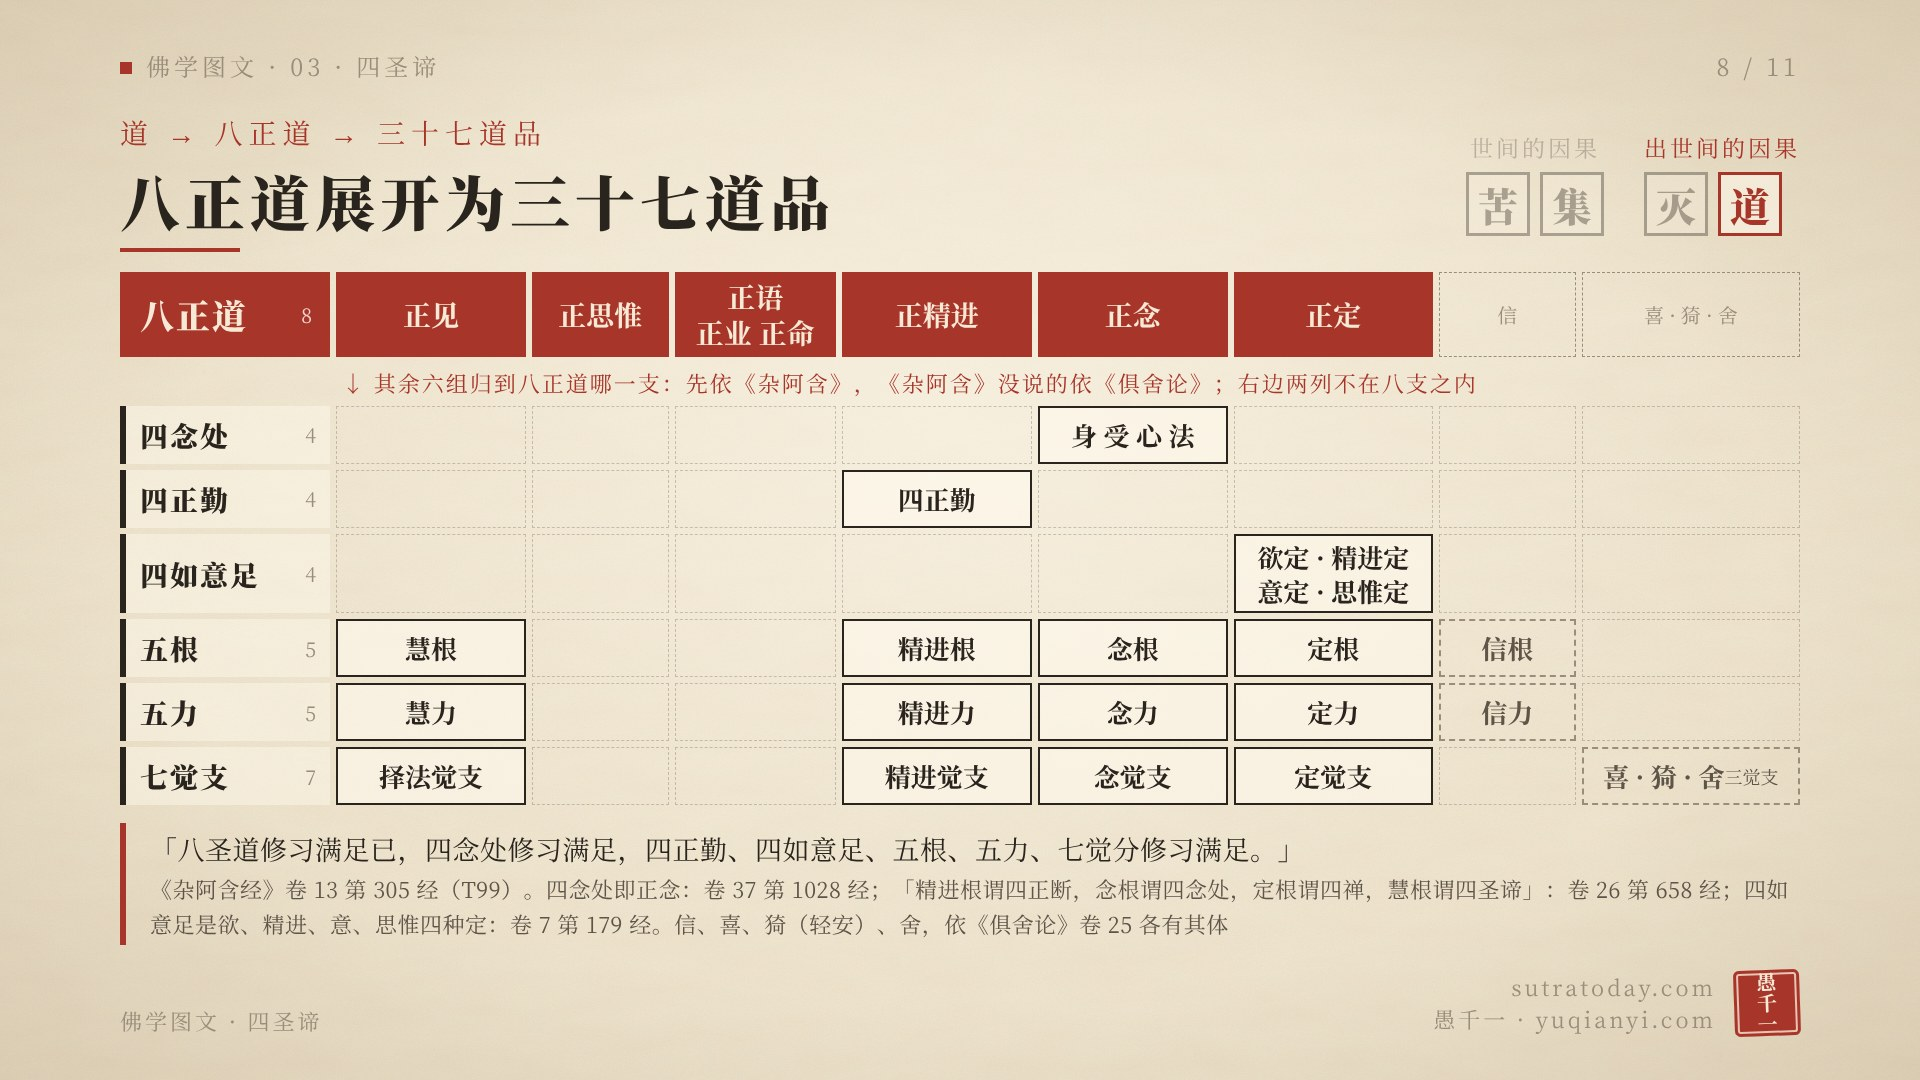
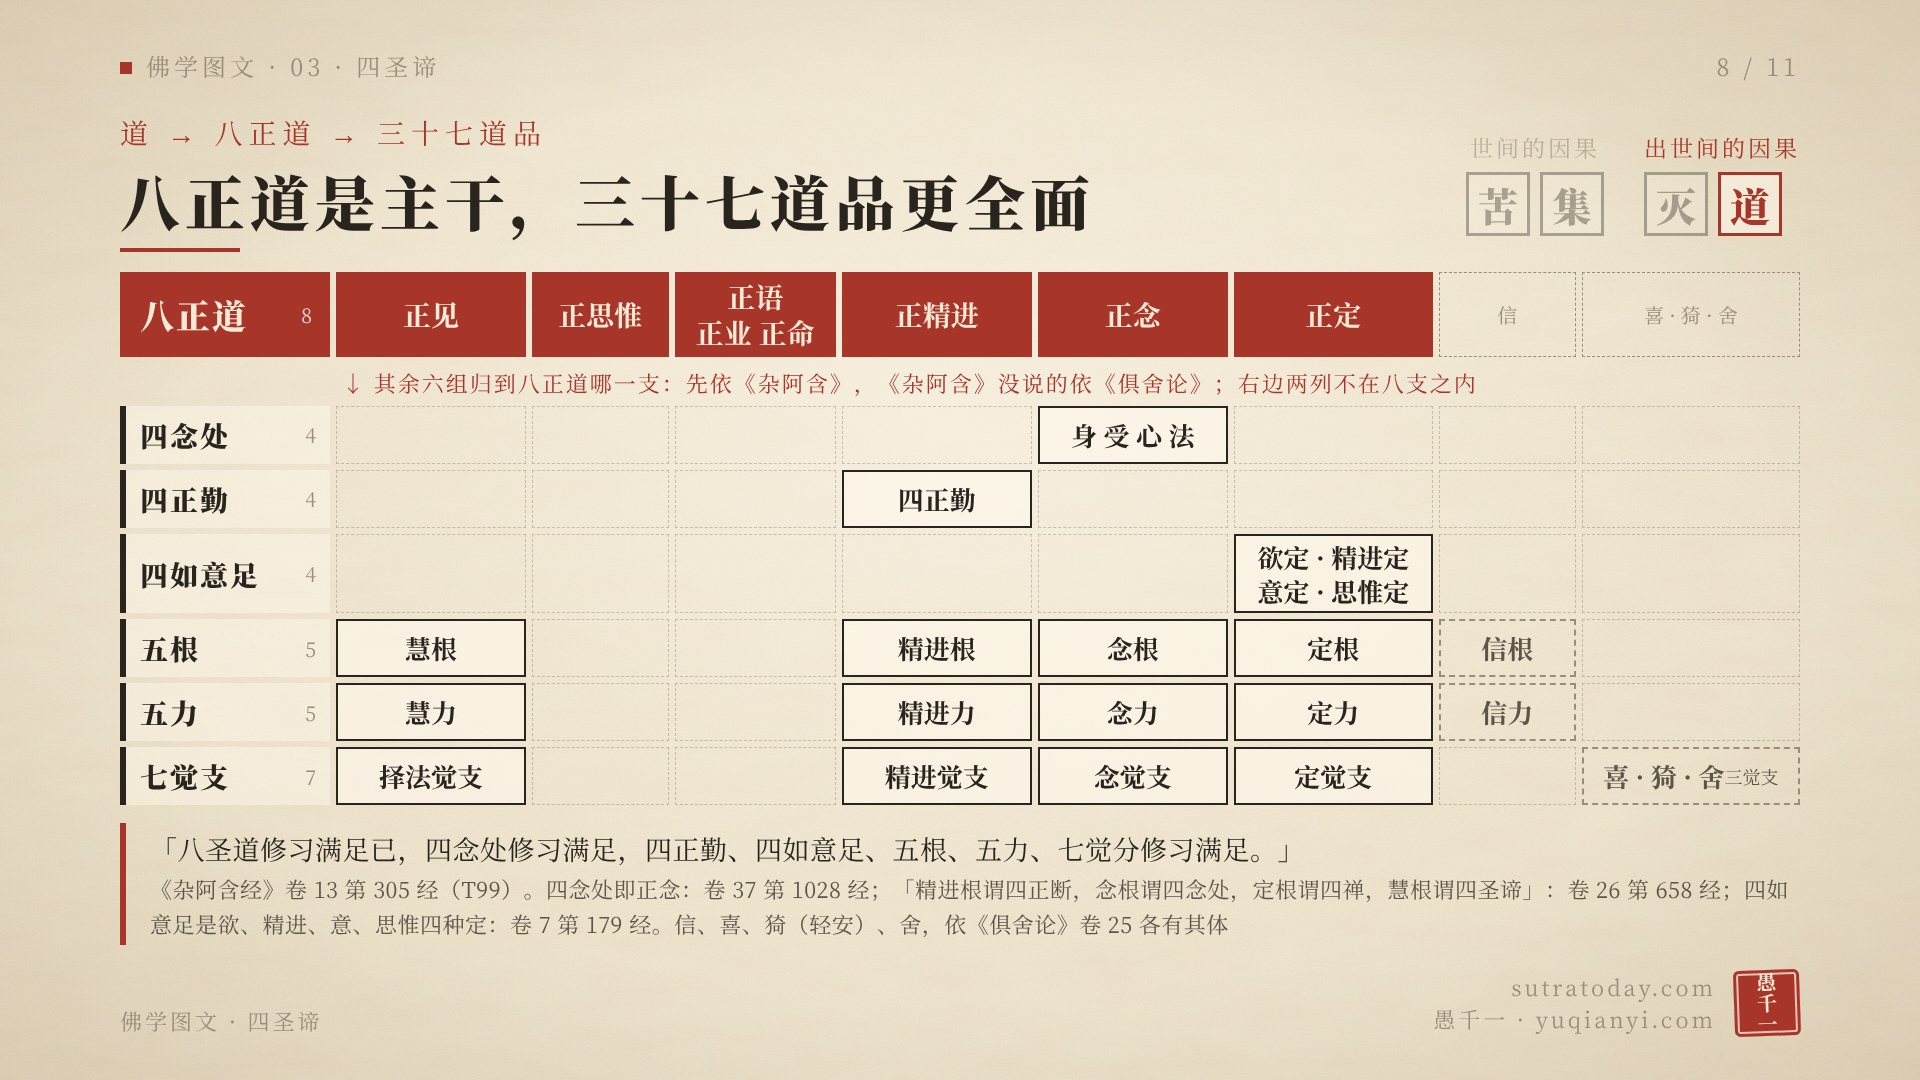
四圣谛：「八正道展开为三十七道品」改为「八正道是主干，三十七道品更全面；八正道修满，其余六组随之修满」
依据杂阿含 305「八圣道修习满足已……七觉分修习满足」与俱舍论卷 25「三十七法顺趣菩提，是故皆名菩提分法」，不再用解脱道论。图卡（封面、卡 8、总图）、文章、口播稿同步修改。

Claude-Session: https://claude.ai/code/session_01HUmfYdn8wkAM14ebYcQraf

Changed region(s): [[0.1562, 0.1528, 0.5625, 0.2139]]

diff --git a/videos/four-noble-truths-infographic/cards.html b/videos/four-noble-truths-infographic/cards.html
@@ -136,7 +136,7 @@
   .up div:last-child { font-size: 26px; color: var(--cinnabar); letter-spacing: 1px; padding-left: 6px; }
   .up div:last-child b { font-size: 30px; margin-right: 10px; }
 
-  /* 道：八正道为主，展开为三十七道品 */
+  /* 道：八正道为主干，更全面的是三十七道品 */
   .dao { display: grid; grid-template-columns: 640px 120px 1fr; align-items: stretch; }
   .bz { padding: 10px 26px 14px; border: 4px solid var(--cinnabar); background: rgba(168,53,42,.09); }
   .bz .hd { display: flex; align-items: baseline; gap: 16px; }
@@ -303,7 +303,7 @@
       <div class="gap"></div>
       <div class="n"><b>十二因缘</b><em>原理</em><span>苦集 → 顺转（流转）<br>灭道 → 逆转（还灭）</span></div>
       <div class="gap"></div>
-      <div class="n"><b>八正道</b><em>方法</em><span>展开为三十七道品</span></div>
+      <div class="n"><b>八正道</b><em>方法</em><span>道的主干；更全面的是三十七道品</span></div>
       <div style="margin-top:28px;font-size:28px;line-height:1.6;color:var(--ink-soft);border-left:4px solid var(--cinnabar);padding-left:22px">四圣谛不是小乘思想。<br>大乘的中观、唯识、如来藏，都不离四圣谛。</div>
     </div>
   </div>
@@ -535,13 +535,13 @@
   <div class="foot"><span>佛学图文 · 四圣谛</span><span class="sign"><span class="url">sutratoday.com<br>愚千一 · yuqianyi.com</span><span class="seal">愚千一</span></span></div>
 </section>
 
-<!-- ===== 八正道 展开为 三十七道品 ===== -->
+<!-- ===== 八正道 与 三十七道品 ===== -->
 <section class="card">
   <div class="head"><span class="series">佛学图文 · 03 · 四圣谛</span><span class="pg"></span></div>
   <div class="top">
     <div>
       <div class="kicker">道 → 八正道 → 三十七道品</div>
-      <h1 class="title">八正道展开为三十七道品</h1>
+      <h1 class="title">八正道是主干，三十七道品更全面</h1>
     </div>
     <div class="di4">
       <div class="half" style="opacity:.35"><div class="cap">世间的因果</div><div class="ch"><b>苦</b><b>集</b></div></div>
@@ -786,14 +786,14 @@
 
   <!-- 道：八正道 → 三十七道品 -->
   <div class="row">
-    <div class="lab r"><b>道</b><span>八正道展开<br>为三十七道品</span></div>
+    <div class="lab r"><b>道</b><span>八正道是主干<br>三十七道品<br>更全面</span></div>
     <div>
       <div class="dao">
         <div class="bz">
           <div class="hd"><b>八正道</b><span>道的主干 · 八支</span></div>
           <div class="items"><i>正见</i><i>正思惟</i><i>正语</i><i>正业</i><i>正命</i><i>正精进</i><i>正念</i><i>正定</i></div>
         </div>
-        <div class="ex"><b>展开</b><i>→</i></div>
+        <div class="ex"><b>满足</b><i>→</i></div>
         <div class="sq">
           <div class="hd">三十七道品<span>七组，共 37 项</span></div>
           <div class="gs">

diff --git a/_posts/2026-10-14-four-noble-truths.md b/_posts/2026-10-14-four-noble-truths.md
@@ -1,7 +1,7 @@
 ---
 layout: post
 title: 四圣谛：佛教的核心思想，和十二因缘、八正道、三十七道品的关系
-description: 佛初转法轮讲四圣谛，大乘中观、唯识、如来藏也不离四圣谛。再从苦集讲十二因缘顺转，从灭道讲逆转，八正道展开为三十七道品，最后用一张图把四者的关系画出来。
+description: 佛初转法轮讲四圣谛，大乘中观、唯识、如来藏也不离四圣谛。再从苦集讲十二因缘顺转，从灭道讲逆转，八正道是主干、三十七道品更全面，最后用一张图把四者的关系画出来。
 excerpt:
 tags:
  - 佛教
@@ -17,7 +17,7 @@ tags:
 
 从这一期开始，讲佛教的核心思想：四圣谛、十二因缘、八正道。这三者的关系，我这样分：四圣谛是核心，十二因缘是原理，八正道是方法。
 
-十二因缘讲的是苦怎样一支一支生起，又怎样一支一支灭掉。苦、集两谛，展开来是十二因缘的顺转；灭、道两谛，展开来是十二因缘的逆转。八正道讲的是怎样修，八正道再展开，就是三十七道品。
+十二因缘讲的是苦怎样一支一支生起，又怎样一支一支灭掉。苦、集两谛，展开来是十二因缘的顺转；灭、道两谛，展开来是十二因缘的逆转。八正道讲的是怎样修，它是道的主干；更全面的修法，是三十七道品。
 
 还要先说明一点：四圣谛不是小乘思想。大乘的中观、唯识、如来藏，都不离四圣谛。这一点，后面拿经论来看。
 
@@ -109,9 +109,9 @@ tags:
 
 ![](https://raw.githubusercontent.com/yuqianyi1001/yuqianyi1001.github.io/master/images/2026-10-14-four-noble-truths-card-8.jpg)
 
-八正道再展开，就是三十七道品。
+八正道是道的主干，更全面的修法，是三十七道品。
 
-《杂阿含经》卷十三第三〇五经说：「八圣道修习满足已，四念处修习满足，四正勤、四如意足、五根、五力、七觉分修习满足。」八正道修满了，其余六组道品也就随着修满了。
+《杂阿含经》卷十三第三〇五经说：「八圣道修习满足已，四念处修习满足，四正勤、四如意足、五根、五力、七觉分修习满足。」八正道修满了，其余六组道品也就随着修满了。经文说的是「随着修满」，并没有说其余六组都包在八正道里面。《俱舍论》卷二十五说：「经说觉分有三十七」，「三十七法顺趣菩提，是故皆名菩提分法」。三十七道品都是趣向菩提的修法，八正道是其中的一组。
 
 三十七道品是：四念处、四正勤、四如意足、五根、五力、七觉支、八正道，四加四加四加五加五加七加八，一共三十七。
 
@@ -145,7 +145,7 @@ tags:
 
 第二行，是灭，展开为十二因缘的逆转：无明灭，行灭，一路灭到老死灭，纯大苦聚灭。
 
-第三行，是道。八正道是道的主干，展开为三十七道品。依道修行，无明灭，乃至老死灭：道是因，灭是果。
+第三行，是道。八正道是道的主干，更全面的是三十七道品；八正道修满，其余六组也随之修满。依道修行，无明灭，乃至老死灭：道是因，灭是果。
 
 ![](https://raw.githubusercontent.com/yuqianyi1001/yuqianyi1001.github.io/master/images/2026-10-14-four-noble-truths-card-11.jpg)
 

diff --git a/videos/four-noble-truths-infographic/script.md b/videos/four-noble-truths-infographic/script.md
@@ -37,7 +37,7 @@
 从这一期开始，讲佛教的核心思想：四圣谛、十二因缘、八正道。  
 这三者的关系，我这样分：四圣谛是核心，十二因缘是原理，八正道是方法。  
 十二因缘，讲的是苦怎样一支一支生起，又怎样一支一支灭掉。苦、集两谛，展开来是十二因缘的顺转；灭、道两谛，展开来是十二因缘的逆转。  
-八正道，讲的是怎样修。八正道再展开，就是三十七道品。  
+八正道，讲的是怎样修，它是道的主干；更全面的修法，是三十七道品。  
 先说明一点：四圣谛不是小乘思想。大乘的中观、唯识、如来藏，都不离四圣谛。这一点，我们后面拿经论来看。  
 
 ## 第 2 张
@@ -131,8 +131,9 @@
 
 ![](out/card-8.png)
 
-八正道再展开，就是三十七道品。  
+八正道是道的主干，更全面的修法，是三十七道品。  
 《杂阿含经》卷十三第三〇五经说：「八圣道修习满足已，四念处修习满足，四正勤、四如意足、五根、五力、七觉分修习满足。」八正道修满了，其余六组道品，也就随着修满了。  
+经文说的是随着修满，并没有说其余六组都包在八正道里面。《俱舍论》卷二十五说，这三十七法都是趣向菩提的，所以都叫菩提分法。八正道，是其中的一组。  
 三十七道品是：四念处、四正勤、四如意足、五根、五力、七觉支、八正道。四加四加四，加五加五，加七加八，一共三十七。  
 其余六组，怎么归入八正道？看这张图：最上面一行是八正道，下面六组，各自归到八正道的某一支下面；右边虚线的两列，不在八支里，后面会讲。  
 四念处归正念，这在《杂阿含》里有明文。卷三十七第一〇二八经，佛对生病的比丘说：「云何为正念？谓比丘内身身观念处，精勤方便，正念正智，调伏世间贪忧。」佛是用四念处，来解释正念的。  
@@ -163,7 +164,7 @@
 右上角是四圣谛：苦、集，是世间的因果；灭、道，是出世间的因果。  
 第一行，是集和苦，展开为十二因缘的顺转。无明、爱、取是惑，行、有是业，惑和业就是集；其余七支是事，就是苦。一路到纯大苦聚集。  
 第二行，是灭，展开为十二因缘的逆转：无明灭，行灭，一路灭到老死灭，纯大苦聚灭。  
-第三行，是道。八正道是道的主干，展开为三十七道品。依道修行，无明灭，乃至老死灭：道是因，灭是果。  
+第三行，是道。八正道是道的主干，更全面的是三十七道品；八正道修满，其余六组也随之修满。依道修行，无明灭，乃至老死灭：道是因，灭是果。  
 
 ## 第 11 张
 

diff --git a/videos/four-noble-truths-infographic/sources.md b/videos/four-noble-truths-infographic/sources.md
@@ -13,7 +13,7 @@
 5. 苦集 → 十二因缘顺转
 6. 灭道 → 十二因缘逆转
 7. 八正道：每一支是什么，分属戒、定、慧
-8. 八正道展开为三十七道品
+8. 八正道是主干，三十七道品更全面
 9. 三十七道品思维导图（还原原图）
 10. 总图
 11. 总图（思维导图版）
@@ -78,3 +78,4 @@
 - 十二因缘只画一列：框和「↓」是顺转，框右边绿色「X灭 ↓」是逆转；灭→逆转那一列标「＝」。集→苦、道→灭标「因 → 果」。
 - 道下面嵌入三十七道品导图（简体）。八正道只在导图里出现一次。
 - 层级：四圣谛、十二因缘、八正道为第一层（朱红粗框、最大字）；苦集灭道、三十七道品为第二层（深色粗框）。八正道的强调只在总图里（`body(emph=True)`），单独的三十七道品还原图不变。十二因缘标题放在一列下方。
+- 「八正道展开为三十七道品」的说法已改为「八正道是道的主干，三十七道品更全面；八正道修满，其余六组也随之修满」。依据：《杂阿含》第 305 经说的是修满八圣道后其余六组「修习满足」，没有说其余六组都摄在八正道内；《俱舍论》卷 25「经说觉分有三十七」「三十七法顺趣菩提，是故皆名菩提分法」。
